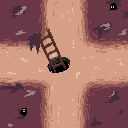
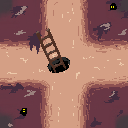
99: New tiles and background(#103)
* 99: Add new background and tiles

* 99: Remove comment

* 99: Fix directions of tiles

diff --git a/src/core/main.ts b/src/core/main.ts
@@ -17,10 +17,9 @@ const config: Phaser.Types.Core.GameConfig = {
     width: ScreenWidth,
     height: ScreenHeight,
     parent: "game-container",
-    backgroundColor: "#693745",
+    backgroundColor: "#463a40",
     scene: [TitleScreen, LobbyScreen, GameScreen, GameUiScreen],
 };
-
 export const EventBus: Phaser.Events.EventEmitter =
     new Phaser.Events.EventEmitter();
 
